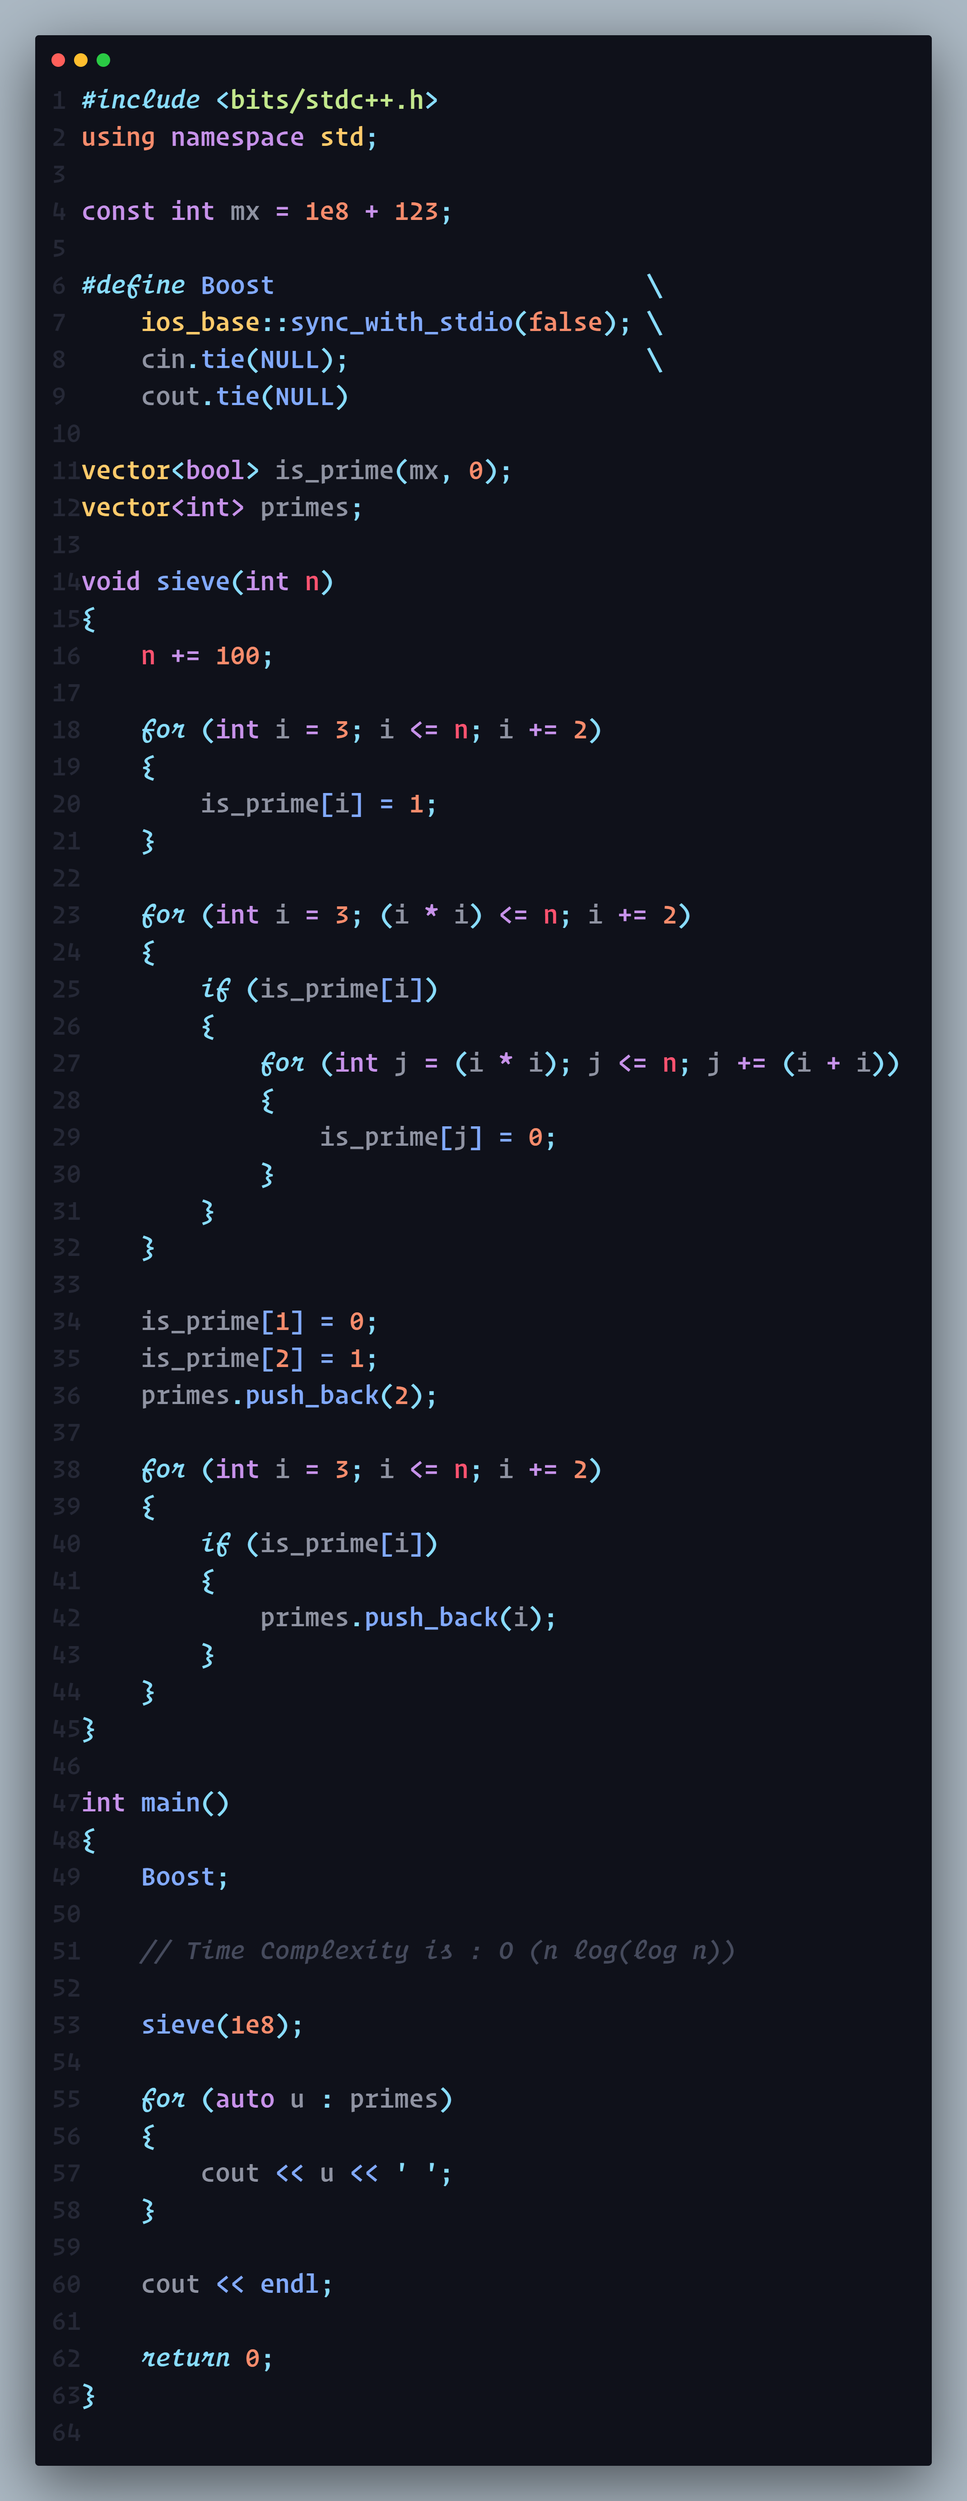
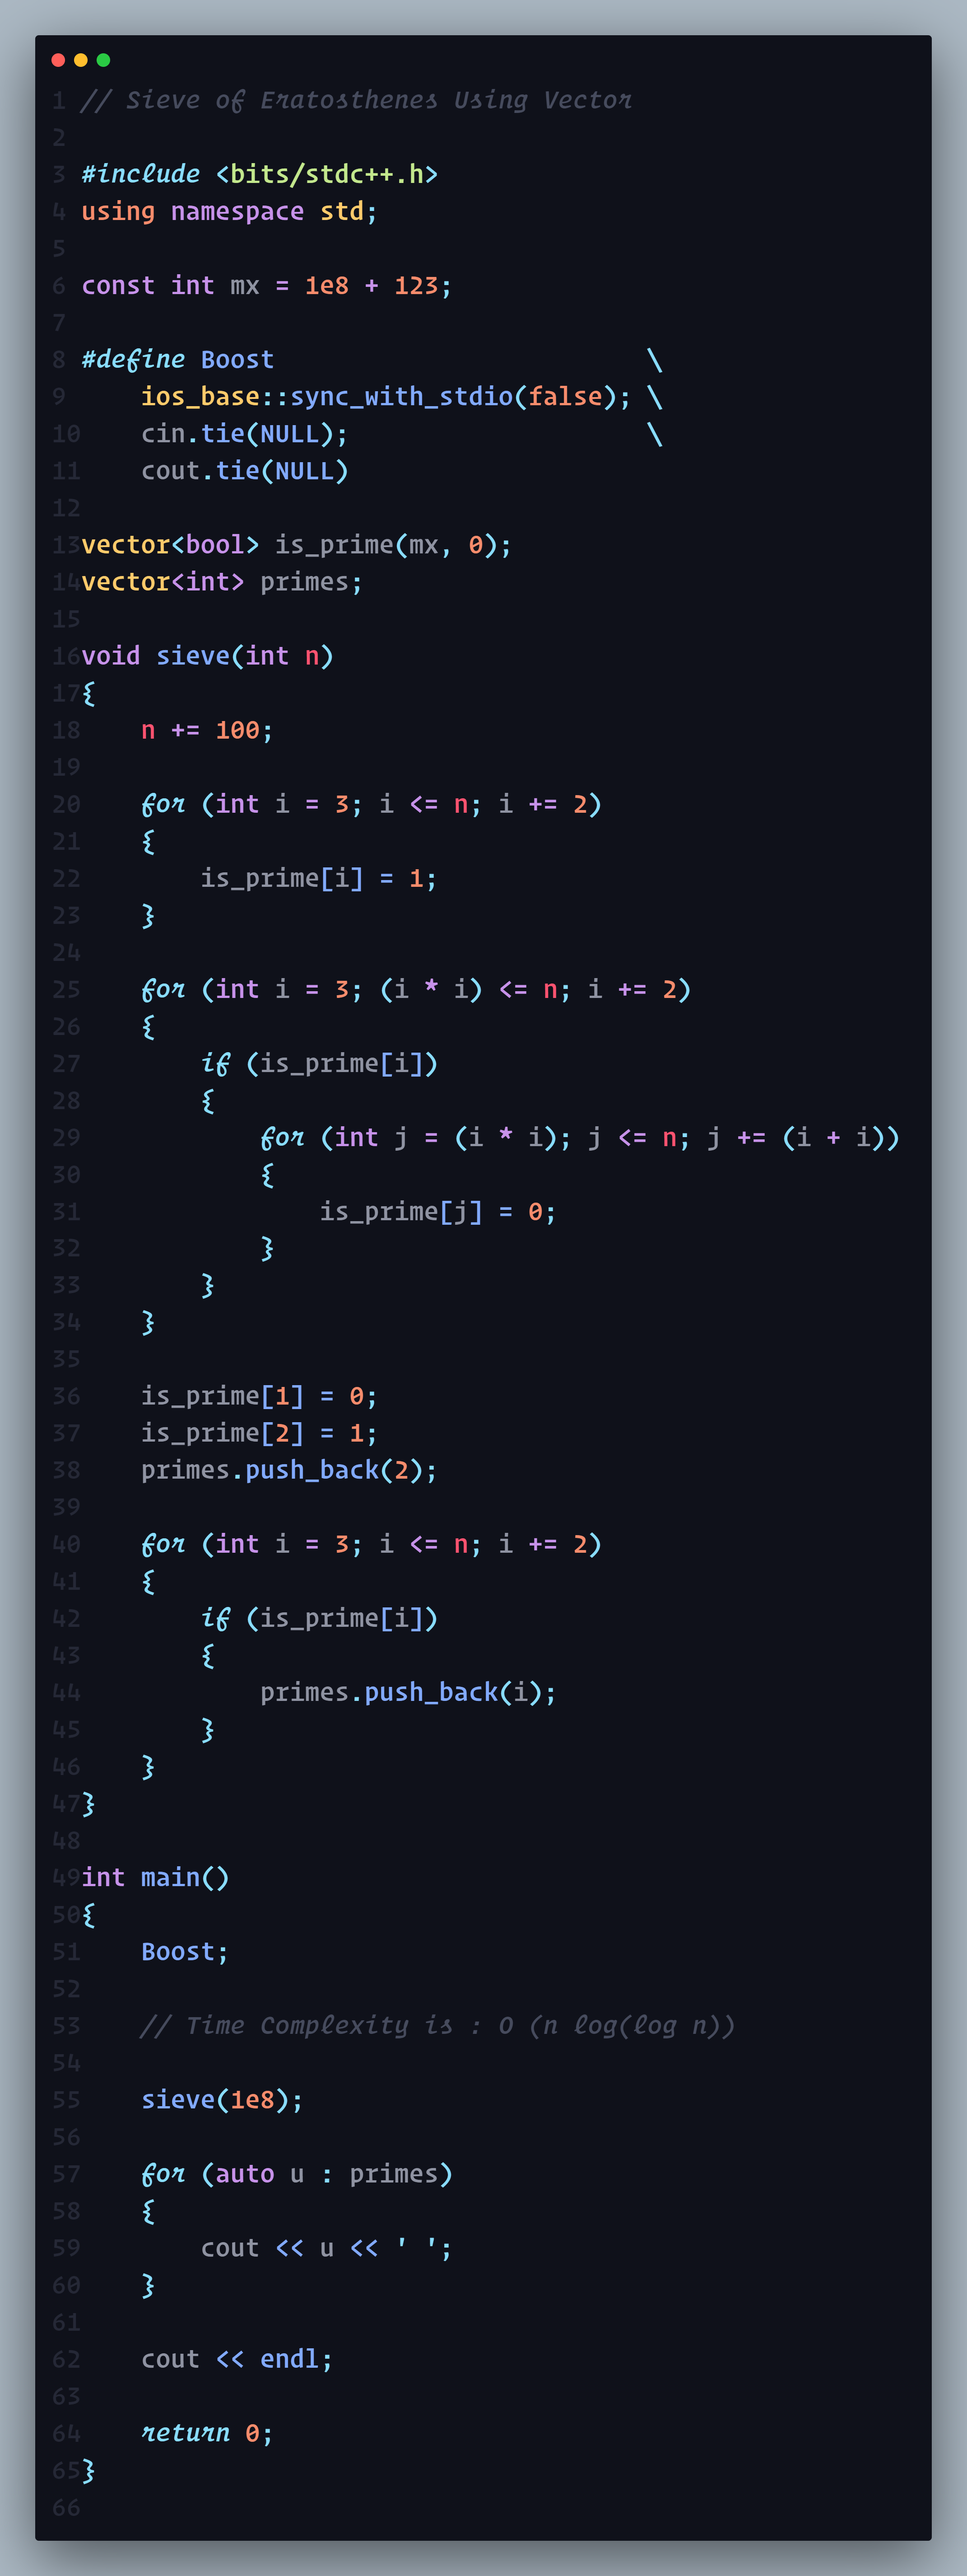
Sieve of Eratosthenes

diff --git a/CP/L1/C-25(Number Theory - Sieve of Eratosthenes)/Theory/SPOJ_TDPrimes.cpp b/CP/L1/C-25(Number Theory - Sieve of Eratosthenes)/Theory/SPOJ_TDPrimes.cpp
@@ -1,4 +1,6 @@
-// https://www.spoj.com/problems/TDPRIMES/
+// SPOJ_TDPrimes (Printing Primes till 1e8)
+
+// Problem link :  https://www.spoj.com/problems/TDPRIMES/
 
 #include <bits/stdc++.h>
 using namespace std;

diff --git a/CP/L1/C-25(Number Theory - Sieve of Eratosthenes)/Theory/Bitset_Sieve.cpp b/CP/L1/C-25(Number Theory - Sieve of Eratosthenes)/Theory/Bitset_Sieve.cpp
@@ -1,3 +1,5 @@
+// Sieve of Eratosthenes Using Bitest
+
 #include <bits/stdc++.h>
 using namespace std;
 

diff --git a/CP/L1/C-25(Number Theory - Sieve of Eratosthenes)/Theory/Vector_Sieve.cpp b/CP/L1/C-25(Number Theory - Sieve of Eratosthenes)/Theory/Vector_Sieve.cpp
@@ -1,3 +1,5 @@
+// Sieve of Eratosthenes Using Vector
+
 #include <bits/stdc++.h>
 using namespace std;
 
